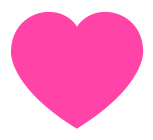
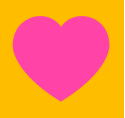
styling changes

diff --git a/src/components/ToyCard.js b/src/components/ToyCard.js
@@ -2,63 +2,70 @@ import React, { useState } from "react";
 import axios from "axios";
 import "../styles/toy-card.css";
 import { FontAwesomeIcon } from "@fortawesome/react-fontawesome";
-import { faTrashCan } from "@fortawesome/free-solid-svg-icons";
+import { faTrashCan, faEnvelope } from "@fortawesome/free-solid-svg-icons";
 
 export default function ToyCard(props) {
-  const [heart, setHeart] = useState("white");
+ const [heart, setHeart] = useState("white");
 
-  const {
-    id,
-    title,
-    description,
-    condition,
-    ageRange,
-    postcode,
-    type,
-    image,
-    setToys,
-  } = props;
-  const imageSource = `/images/${image}.png`;
+ const {
+  id,
+  title,
+  description,
+  condition,
+  ageRange,
+  postcode,
+  type,
+  image,
+  setToys,
+ } = props;
+ const imageSource = `/images/${image}.png`;
 
-  const handleDelete = () => {
-    return axios
-      .delete(`http://localhost:4000/toys/${id}`)
-      .then(setToys((prevToys) => prevToys.filter((toy) => toy.id !== id)))
-      .catch((error) => console.log(error));
-  };
+ const handleDelete = () => {
+  return axios
+   .delete(`http://localhost:4000/toys/${id}`)
+   .then(setToys((prevToys) => prevToys.filter((toy) => toy.id !== id)))
+   .catch((error) => console.log(error));
+ };
 
-  const handleClick = () => {
-    if (heart === "white") {
-      setHeart("pink");
-    } else if (heart === "pink") {
-      setHeart("white");
-    }
-  };
+ const handleContact = () => {};
 
-  return (
-    <div className="toy-card">
-      <img className="toy-card_image" src={imageSource} alt="product" />
-      <h2>{title}</h2>
-      <p>{description}</p>
-      <p>Type:{type}</p>
-      <p>Age Range: {ageRange}</p>
-      <p>Condition: {condition}</p>
-      <p>Postcode: {postcode}</p>
-      <div className="toy-card_buttons">
-        <button
-          className="toy-card_button toy-card_delete"
-          type="button"
-          onClick={handleDelete}
-        >Delete <FontAwesomeIcon icon={faTrashCan} />
-        </button>
-        <button
-          type="button"
-          className="toy-card_button toy-card_heart"
-          onClick={handleClick}
-        >
-          <img src={`/images/heart_${heart}.png`} alt="favourite icon" />
-        </button>
-      </div>
-    </div>
-  );
+ const handleClick = () => {
+  if (heart === "white") {
+   setHeart("pink");
+  } else if (heart === "pink") {
+   setHeart("white");
+  }
+ };
+
+ return (
+  <div className="toy-card">
+   <img className="toy-card_image" src={imageSource} alt="product" />
+   <h2>{title}</h2>
+   <p>{description}</p>
+   <p>Type:{type}</p>
+   <p>Age Range: {ageRange}</p>
+   <p>Condition: {condition}</p>
+   <p>Postcode: {postcode}</p>
+   <div className="toy-card_buttons">
+    <button
+     className="toy-card_button toy-card_delete"
+     type="button"
+     onClick={handleDelete}
+    >
+     Delete <FontAwesomeIcon icon={faTrashCan} />
+    </button>
+    <button
+     className="toy-card_button toy-card_contact"
+     type="button"
+     onClick={handleContact}
+    >
+     Contact
+       <FontAwesomeIcon icon={faEnvelope} />
+    </button>
+    <button type="button" className="toy-card_button toy-card_heart" onClick={handleClick}>
+     <img src={`/images/heart_${heart}.png`} alt="favourite icon" />
+    </button>
+   </div>
+  </div>
+ );
 }

diff --git a/src/styles/profile.css b/src/styles/profile.css
@@ -1,5 +1,5 @@
 .profile-container {
-    max-width: 600px;
+    max-width: 100%;
     margin: auto;
     padding: 20px;
     border: 1px solid #ccc;
@@ -13,4 +13,8 @@
   
   .email-icon {
     margin-left: 5px;
+  }
+
+  *{
+    text-align: center;
   }

diff --git a/src/styles/toy-card.css b/src/styles/toy-card.css
@@ -34,9 +34,9 @@
 }
 
 .toy-card_heart>img{
-    height: 30px
+    height: 20px
 }
 
 .toy-card_heart{
-    height: 40px;
+    height: 30px;
 }
